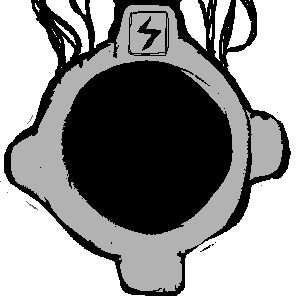
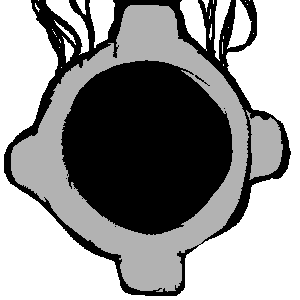
added wires and energy switch

Changed region(s): [[0.42, 0.03, 0.57, 0.21], [0.66, 0.81, 0.72, 0.84], [0.09, 0.66, 0.12, 0.69]]

diff --git a/js/script.js b/js/script.js
@@ -35,10 +35,12 @@ var intervals = []
 var decayIntervals = []
 var messagePresets = [false]
 
-//cost, increase rate, number of, reference, description, tick, data position, decay rate
+//cost, increase rate, number of, name, reference, description, tick, data position, decay rate, type, message[optional]
 var upgradePresets = [
-    [10, 5, 0, "Blood Valve", "blood", "Pumps blood every 1 s<br>Decays every 10 s", 1, 0, 10],
-    [20, 7, 0, "Blood Pipe", "pipe", "Pipes blood every 0.5 s<br>Decays every 20 s", 0.5, 1, 20],
+    [10, 5, 0, "Blood Valve", "blood", "Pumps blood every 1 s<br>Decays every 10 s", 1, 0, 10, "basicCounter"],
+    [20, 7, 0, "Blood Pipe", "pipe", "Pipes blood every 0.5 s<br>Decays every 20 s", 0.5, 1, 20, "basicCounter"],
+
+    [10, 5, 0, "Logger", "logger", "Logs a message every second.<br>\"it's useless\" -the dev", 1, 2, 0, "Logger", "yo"]
 ]
 
 var specialPresets = [
@@ -202,7 +204,7 @@ function addUpgrade(preset) {
     let tick = preset[6]
     let dataPosition = preset[7]
     let decayRate = preset[8]
-
+    let type = preset[9]
    
 
  var node = d.createElement("DIV");
@@ -222,6 +224,9 @@ function addUpgrade(preset) {
     d.getElementById(reference + "Upgrade"),
     increaseRate, reference + "Upgrade", name, description, tick,
     reference+ "UpgradeCost", reference+ "UpgradeNum", false, decayRate, reference]
+
+
+    if(type === "basicCounter") {
 
     intervals[dataPosition] = setInterval(()=>{
         if(data.upgrade[preset[7]] !== null && data.upgrade[preset[7]] !== undefined && data.upgrade[preset[7]][2] > 0) {
@@ -260,8 +265,36 @@ function addUpgrade(preset) {
             }
         })
 
-    data.upgrade[dataPosition][13] = true
+   // data.upgrade[dataPosition][13] = true
     data.upgrade[dataPosition][5].style.display = "none"
+
+    }   else if(type === "Logger") {
+
+        let LoggerMessage = preset[10]
+
+        data.upgrade[dataPosition][5].addEventListener("click", ()=> {
+            if(data.counter >= data.upgrade[dataPosition][1]) {   
+                data.upgrade[dataPosition][2]++      
+                data.counter -= data.upgrade[dataPosition][1]
+                data.upgrade[dataPosition][1] += data.upgrade[dataPosition][6]
+
+            }})
+
+        intervals[dataPosition] = setInterval(()=>{
+            if(data.upgrade[preset[7]] !== null && data.upgrade[preset[7]] !== undefined && data.upgrade[preset[7]][2] > 0) {
+                
+                checkMessage("hey.", false)
+        
+            }}, data.upgrade[0][10] * 1000)
+
+            data.upgrade[dataPosition][5].style.display = "none"
+
+
+    } else console.log("welp")
+
+
+
+
 }
 
 for(n in upgradePresets) addUpgrade(upgradePresets[n])
@@ -425,8 +458,11 @@ function Node(title, text, options) {
     Nodes[title][1] = options;
 }
 
-heartCon = d.getElementById("heartCont")
-heartCon.addEventListener("click", ()=>{
+wireItems = d.getElementsByClassName("wiresItem")
+
+
+for(let n = 0; n <= 1; n++)
+wireItems[n].addEventListener("click", ()=>{
 
     switch (true) {
         case (wires[0] < 32):
@@ -501,6 +537,22 @@ link("home");
 Node("look_around", ["Fields as far as the eye can see.|Get up~get_up"], [])
 
 Node("get_up", ["You get up.|Look at yourself[MISSING]~", "You try to get up. You fail.<br>But maybe if you had more power..."], [10, 0])
+
+//Node("look_at_yourself", ["After everything, it's still you— wait, what?"], [])
+
+
+let EnergySwitch = d.getElementById("EnergySwitch")
+let EnergySwitchToggle = true;
+
+EnergySwitch.addEventListener("click", ()=>{
+    console.log("click!")
+    EnergySwitchToggle = !EnergySwitchToggle;
+
+    EnergySwitch.style.backgroundImage  = EnergySwitchToggle ? "url('css/images/energySwitch2.png')" : "url('css/images/energySwitch.png')"
+
+    console.log(EnergySwitch.style.backgroundImage)
+
+})
 
 
 
@@ -619,7 +671,7 @@ function LOAD() {
 
 
     for(let n = 3; n <= messages.children.length - 4; n += 3) {
-        if(messages.children[n].attributes.onclick.value.includes("''")) {
+        if(messages.children[n].attributes.onclick.value.includes("''") || messages.children[n].attributes.onclick.value.includes('""')) {
             for(m in Nodes[data.adventureLog[data.adventureLog.length - 1]][0]) {
                if (Nodes[data.adventureLog[data.adventureLog.length - 1]][0][m].split("|")[0] ===  messages.children[0].innerHTML) {
                 for(var i = 1; i < Nodes[data.adventureLog[data.adventureLog.length - 1]][0][m].split("|").length; i++) {

diff --git a/css/main.css b/css/main.css
@@ -272,6 +272,39 @@ a:visited {
   margin:0;
 }
 
+#wiresCon {
+  z-index: 4;
+  width:250px;
+  position: absolute;
+  top:0;
+  left: 50%;
+
+}
+
+#wiresFlex{
+  position:relative;
+  left : -50%;
+  height:60px;
+  display: flex;
+  justify-content: space-between;
+}
+
+.wiresItem{
+  width: 75px;
+}
+
+#EnergySwitch {
+  width:50px;
+  /* background-color: #0f0; */
+  opacity:1;
+   background-image: url(images/energySwitch.png); 
+  background-repeat: no-repeat;
+  background-position:center;
+  background-size: auto;
+}
+
+
+
 
 @keyframes scale {
   from { transform:scale(1);}

diff --git a/index.html b/index.html
@@ -26,6 +26,13 @@
   <div id="gameContainer" class="inner">
       <img id ="heartCont" src="css/images/heartBack.png">
       <img id="heart" src="css/images/heart.png">
+      <div id="wiresCon">
+        <div id = "wiresFlex">
+         <div class="wiresItem"></div> 
+         <div id="EnergySwitch"></div>
+         <div class="wiresItem"></div>
+        </div>
+      </div>
 
   </div>
   <div class="saveRow" id="saving">
